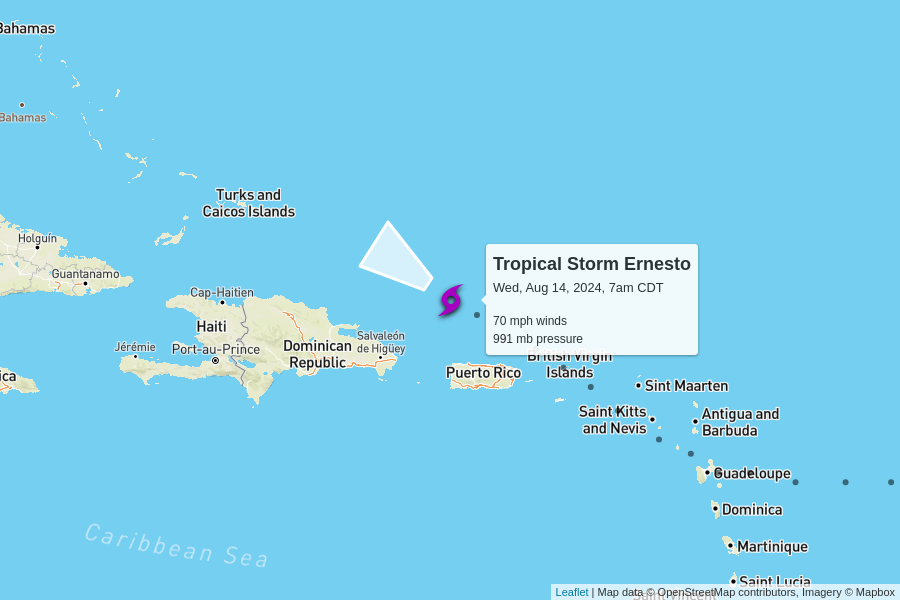
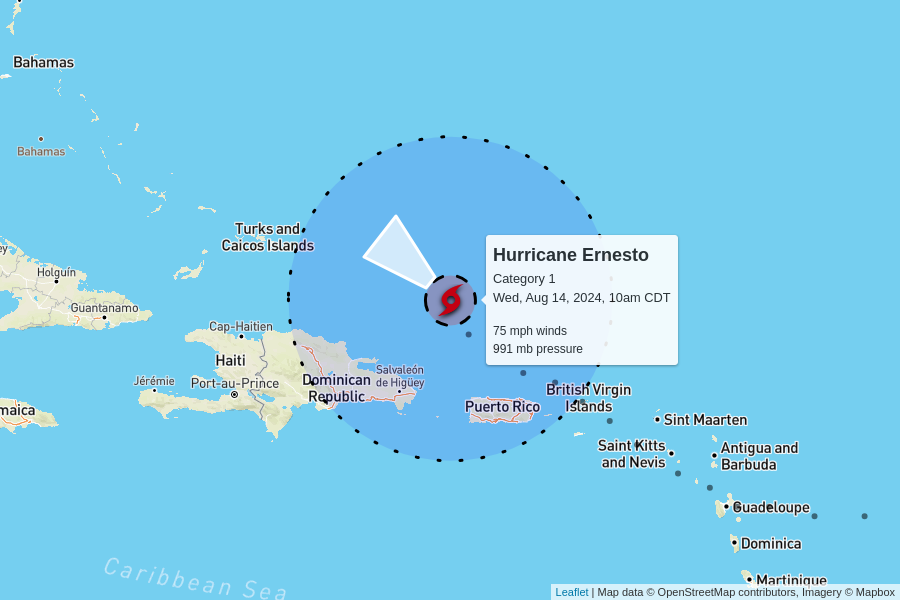
automatic update

diff --git a/docs/index.html b/docs/index.html
@@ -99,10 +99,10 @@
 
     <table>
       <tr>
-        <td colspan="6" class="storm category-0" >
+        <td colspan="6" class="storm category-1" >
           <h2>
-            Tropical Storm Ernesto
-            <p class="updated">last updated <span data-time>2024-08-14T12:00:00.000Z</span></p>
+            Hurricane Ernesto - Category 1
+            <p class="updated">last updated <span data-time>2024-08-14T15:00:00.000Z</span></p>
           </h2>
         </td>
       </tr>
@@ -117,12 +117,12 @@
       </tr>
       <tr>
         <td class="spacer"></td>
-        <td>70 mph<br>0 mph since last update</td>
-        <td>991 mb<br>-5 mb since last update</td>
+        <td>75 mph<br>+5 mph since last update</td>
+        <td>991 mb<br>0 mb since last update</td>
         <td>
           16 mph to the northwest
           <br/>
-          <span style="display: inline-block; font-size: 1.5em; transform: rotate(305deg);">↑</span>
+          <span style="display: inline-block; font-size: 1.5em; transform: rotate(310deg);">↑</span>
         </td>
         <td><a href="https://raw.githubusercontent.com/mgwalker/atlantic-hurricanes/main/data/csv/AL052024.csv">AL052024.csv</a></td>
         <td><a href="https://www.nhc.noaa.gov/archive/2024/ERNESTO.shtml?">NHC advisories</a></td>
